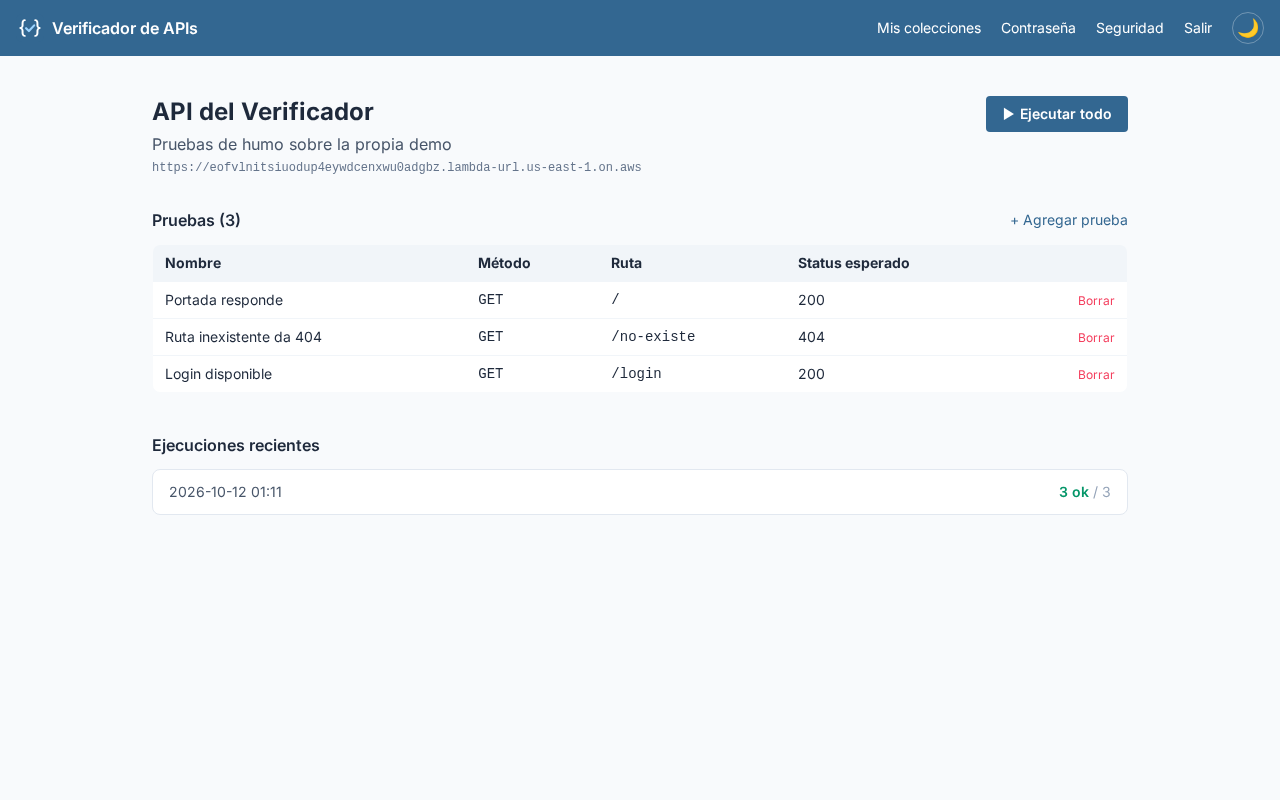
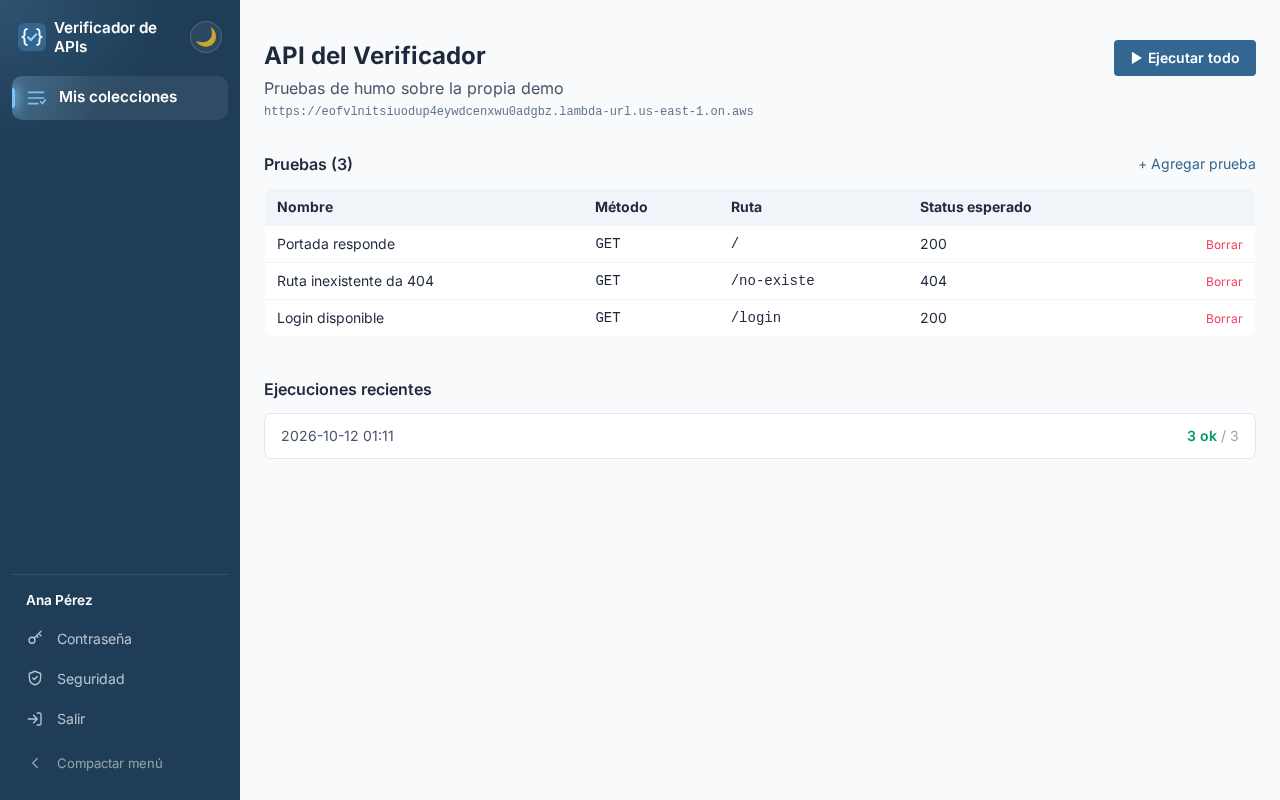
docs(manual): capturas nuevas de producción, menú lateral y compacto, celular, seis casillas, tablero de la ejecución, instalación, sin conexión y 404 [skip ci]

diff --git a/docs/MANUAL.md b/docs/MANUAL.md
@@ -104,6 +104,10 @@ Después de **Entrar** aparece la pantalla del código:
 | 2 | Verificar | Abre **Mis colecciones** |
 | 3 | Perdí mi autenticador | Si ya no tienes la app: te envía un código al correo (ver **Perdí mi autenticador**) |
 
+El código se escribe en **seis casillas**, una por dígito: puedes teclearlo o pegarlo completo.
+Un candado sobre el título se abre al enviar el código completo y se sacude si no es válido; con la
+app autenticadora, un anillo muestra cuántos segundos faltan para que la app cambie de código.
+
 ### Olvidé mi contraseña
 
 En **Iniciar sesión**, pulsa **¿Olvidaste tu contraseña?** y escribe tu correo. Si la cuenta existe y
@@ -156,7 +160,19 @@ permite entrar aunque no tengas el teléfono a mano.
 |:-:|---|---|
 | 1 | + Nueva colección | Crea una colección de pruebas |
 
-Solo ves **tus** colecciones.
+Solo ves **tus** colecciones. Arriba, una franja resume cuántas colecciones y pruebas tienes.
+
+**Menú lateral.** A la izquierda está **Mis colecciones** (y **Usuarios** para el administrador);
+una luz azul marca la sección actual. Al pie están tu nombre, **Contraseña**, **Seguridad** y
+**Salir**. **Compactar menú** lo reduce a solo íconos (al pasar el cursor aparece el nombre de
+cada uno) y la preferencia se recuerda en ese equipo.
+
+![Menú lateral compacto con el nombre de la opción al pasar el cursor](img/manual/09-menu-compacto.png)
+
+**En el celular y en la tablet en vertical** el menú se convierte en una **barra inferior**
+translúcida; **Más** abre una hoja desde abajo con Contraseña y Salir.
+
+![Ejecución en el celular con la hoja Más abierta](img/manual/10-movil-mas.png)
 
 ### 4.4 Crear una colección
 
@@ -197,7 +213,11 @@ Solo ves **tus** colecciones.
 
 ![Detalle de una ejecución](img/manual/07-ejecucion.png)
 
-Cada prueba aparece con ✅ o ❌, el código HTTP recibido y el tiempo de respuesta en
+Arriba, una franja resume la ejecución: un anillo con el porcentaje de pruebas exitosas (verde si
+pasaron todas), las fallidas, el tiempo promedio por petición y el de la más lenta. Debajo, una
+barra por prueba compara los tiempos de respuesta (verde si pasó, rojo si falló).
+
+En **Detalle**, cada prueba aparece con ✅ o ❌, el código HTTP recibido y el tiempo de respuesta en
 milisegundos. Si falló, se indica el motivo (status distinto, texto ausente o error de conexión).
 
 ### 4.8 Preguntas frecuentes
@@ -209,7 +229,22 @@ tu equipo (`localhost`) o en una red privada, el servidor de la demo no la alcan
 
 **¿Puedo ver las ejecuciones antiguas?** La colección muestra las 10 más recientes.
 
-**¿Qué significa la pantalla "Estamos en mantenimiento"?** El servicio o su base de datos no están respondiendo en ese momento. No se perdió nada: tus colecciones, pruebas y ejecuciones siguen guardados, y ninguna acción quedó a medias (si no viste la confirmación, no se guardó). La pantalla se actualiza sola y vuelve a la normalidad apenas el servicio responda; también puedes reintentar más tarde.
+**¿Puedo instalarlo como aplicación?** Sí. En Chrome o Edge usa **Instalar aplicación** (ícono
+en la barra de direcciones o menú ⋮); en el iPhone, en Safari, **Compartir → Agregar a inicio**. Se
+abre en su propia ventana y entra directo a tus colecciones.
+
+**¿Qué pasa si me quedo sin internet?** Aparece la pantalla **Sin conexión**, que reintenta sola
+cada pocos segundos (o con **Reintentar ahora**) y vuelve a la página cuando hay red.
+
+![Pantalla sin conexión con reintento automático](img/manual/12-sin-conexion.png)
+
+**Abrí un enlace y dice "Esta ruta no responde 200".** La dirección no existe (un enlace viejo o
+una colección que ya no está). Usa **Ver colecciones** o **Volver al inicio**; si tenías la sesión
+abierta, sigue abierta.
+
+![Página no encontrada](img/manual/11-no-encontrada.png)
+
+**¿Qué significa la pantalla "Estamos en mantenimiento"?** El servicio o su base de datos no están respondiendo en ese momento. No se perdió nada: tus colecciones, pruebas y ejecuciones siguen guardados, y ninguna acción quedó a medias (si no viste la confirmación, no se guardó). La pantalla se actualiza sola (un anillo muestra los segundos que faltan para el siguiente intento) y vuelve a la normalidad apenas el servicio responda; también puedes reintentar más tarde.
 
 ## 5. Seguridad: tu información protegida
 
